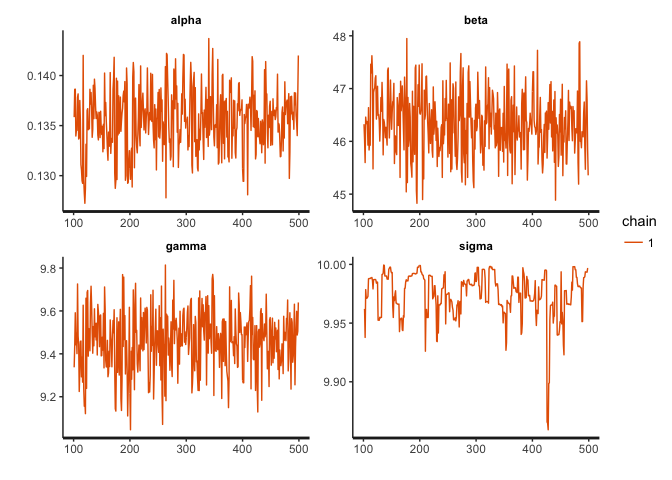
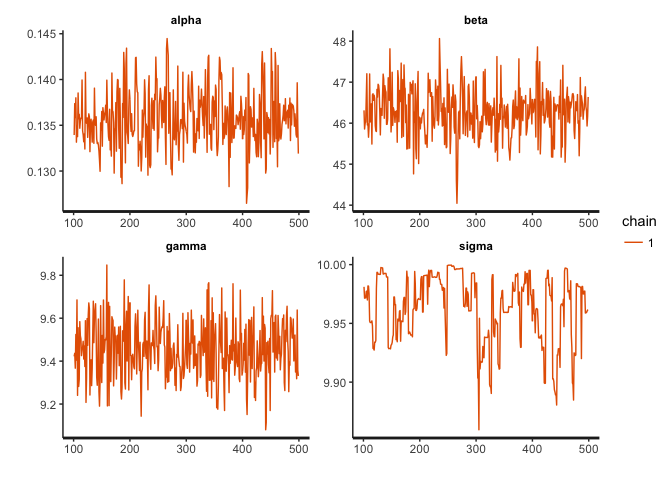
wiht full model

diff --git a/Analyses.md b/Analyses.md
@@ -66,7 +66,7 @@ par
 ```
 
     ##         alpha          beta         gamma         sigma          lp__ 
-    ##  1.355468e-01  4.633938e+01  9.459061e+00  9.974825e+00 -4.636410e+04
+    ##  1.357356e-01  4.628608e+01  9.454549e+00  9.964080e+00 -4.636418e+04
 
 ``` r
 # plotting predictions
@@ -76,10 +76,49 @@ ggplot(data, aes(Rg, NEE)) + geom_point() + geom_smooth() +
 
     ## `geom_smooth()` using method = 'gam'
 
-![](Analyses_files/figure-markdown_github/basic%20plot-3.png)
+![](Analyses_files/figure-markdown_github/basic%20plot-3.png) The basic model fits well the data. no convergence problems. Good estimates of model parameters. No chain covariance.
 
 Testing for a site effect on model parameters
 =============================================
+
+We first test on all parameters simultaneously. Let's see.
+
+``` r
+library(rstan)
+load(file="mod1.Rdata")
+traceplot(mod1, pars=c("alpha", "beta", "gamma", "sigma"), nrow=2)
+```
+
+![](Analyses_files/figure-markdown_github/all%20plot-1.png)
+
+``` r
+plot(mod1)
+```
+
+    ## ci_level: 0.8 (80% intervals)
+
+    ## outer_level: 0.95 (95% intervals)
+
+![](Analyses_files/figure-markdown_github/all%20plot-2.png)
+
+``` r
+# Model parameters
+par<-summary(mod1)$summary[,1]
+par
+```
+
+    ##      alpha[1]      alpha[2]       beta[1]       beta[2]      gamma[1] 
+    ##  1.111553e-01  1.617042e-01  4.666792e+01  4.669262e+01  9.636282e+00 
+    ##      gamma[2]         sigma          lp__ 
+    ##  8.987885e+00  9.855074e+00 -4.606304e+04
+
+From this model, it looks like
+
+**alphas are different, with a lower canopy light utilisation efficiency (0.10-0.12) at Guyaflux than at Nouraflux (0.15-0.17)**
+
+**betas are not different, with the maximum NEE of the canopy at light saturation similar between the two sites (45-49)**
+
+**gammas are slightly different, with the average ecosystem respiration lower at Guyaflux (9.3-10.0) than at Nouraflux (8.6-9.4)**
 
 Predictions
 ===========
